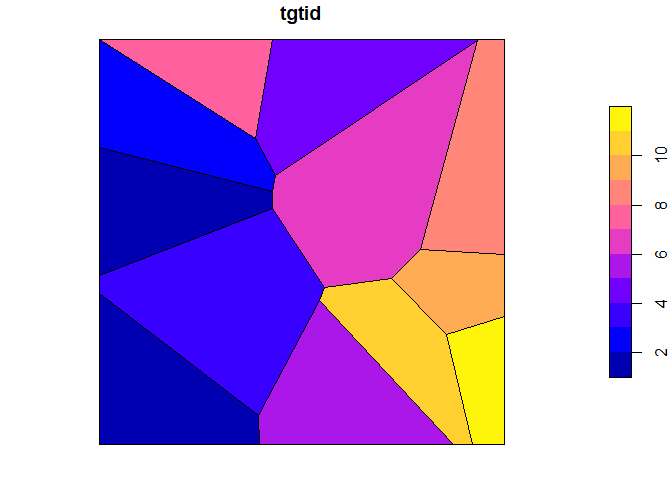
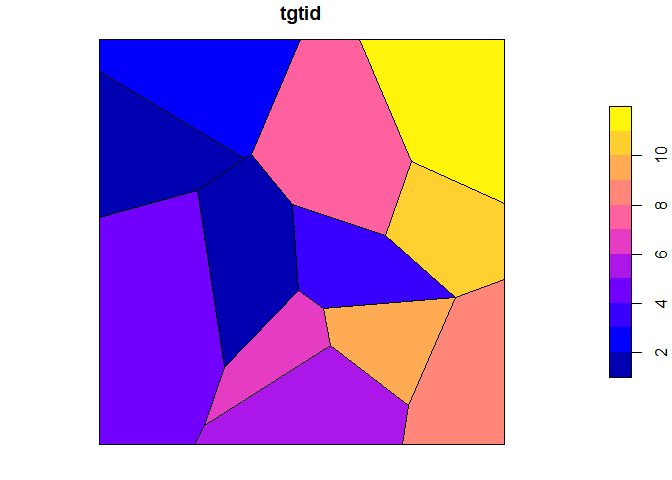
update validation

diff --git a/spatagg_validate.md b/spatagg_validate.md
@@ -12,8 +12,9 @@ cons of spatagg methods.
 
 ### Boundary
 
-First, we create an overall geographic boundary from which smaller
-non-overlapping sets of geographies will be generated.
+First, an overall geographic boundary is created. This boundary serves
+as a sandbox from which smaller non-overlapping sets of geographies are
+be generated.
 
 ``` r
 # Set up libraries
@@ -38,10 +39,16 @@ boundary = sf::st_sf(r, id = 1)
 
 ### Source and target
 
-Two sets of geographies will be created. The first, src (or, source)
-will be the origin geographic set for the data (to be created later).
-The second, tgt(or, target), is the desired geographic level for the
-estimates.
+Two sets of geographies are created. The first, src (or, source) is the
+origin geographic set for the data (to be created later). The second,
+tgt (or, target), is the desired geographic level for the estimates.
+Both are provided in maps below. They are created by sampling a set of
+points within the boundary and then creating a voronoi tessellation
+around the points. By design, there are more source polygons than target
+ones. This reflects that most instances of non-nesting aggregation go
+between a set of geographically smaller source polygons and a larger
+(geographically) set of target polygons. For example, Census Tracts to
+ZIP codes.
 
 ``` r
 src = st_sample(boundary, 30)
@@ -69,9 +76,10 @@ plot(tgt[,'tgtid'])
 
 ### Population and variables
 
-Randomly generate the location of “people” within the boundary. Randomly
-assign the people a binary condition and numeric one. Spatial patterning
-derives from src
+The location of “people are randomly generated within the boundary.
+These”people” are randomly assigned a binary variable value and a
+numeric (count) variable. The src polygon is used to inject some spatial
+patterning.
 
 ``` r
 # Bring in source information to give it some spatial patterning
@@ -110,8 +118,11 @@ ggplot(grid) + geom_sf(aes(fill = N), color = NA) + theme_bw() + ggtitle('Popula
 
 ### Aggregate to source
 
+The maps below show the “true” values for the `bin` and `num` variables
+at the source geography level.
+
 ``` r
-srcp = pop %>% st_drop_geometry() %>% group_by(srcid) %>% summarize(bin = mean(bin), num = mean(num))
+srcp = pop %>% st_drop_geometry() %>% group_by(srcid) %>% summarize(bin = mean(bin), num = sum(num))
 src = merge(src[, c('srcid', 'npop','binperc')], srcp, all.x = T, by = 'srcid')
 
 plot(src[, c('bin', 'num')])
@@ -120,6 +131,11 @@ plot(src[, c('bin', 'num')])
 ![](spatagg_validate_files/figure-commonmark/unnamed-chunk-5-1.png)
 
 ### Aggregate to target
+
+The maps below show the “true” values of `bin` and `num` at the target
+geography level. The resulting values are what will serve as the
+observed truth when evaluating the various types of spatial
+crosswalking.
 
 ``` r
 tgtp = pop %>% st_intersection(tgt) %>% st_drop_geometry() %>% group_by(tgtid) %>% summarize(bin = mean(bin), num = sum(num))
@@ -133,6 +149,23 @@ plot(tgt[, c('bin', 'num')])
 
 ### Geographic Crosswalks
 
+Geographic crosswalks distribute values from source to target based on
+geographic overlap. For the `num` variable, a source polygon contributes
+the percent overlap to a given target. For example, a source polygon
+that has 30% of its area overlapping a given target polygon will
+contribute `.3 * num` to the final estimate for target. The target
+polygon `bin` value is computed slightly differently. Instead, source
+polygon contributes its value based on the relative overlap with target.
+For example, a source polygon’s area may overlap 30% with the target
+polygon, but only cover 10% of the target polygon. As such, the
+resulting weight of the source to target pairing is 10%. By weighting in
+terms of relative share of target, \[0-1\] bounding for binary variables
+(or percents or proportions or whatever) will be preserved.
+
+Geographic crosswalks can be considered a special case of population
+crosswalks with the assumption that population is equally distributed
+within a source polygon.
+
 ``` r
 library('spatagg')
 s2t = create_xwalk(source = src, target = tgt, source_id = 'srcid', target_id = 'tgtid',method = 'fractional overlap')
@@ -145,6 +178,16 @@ setnames(tgt_g, c('tgtid', 'gbin', 'gnum'))
 ```
 
 ### Population based crosswalk
+
+This set of crosswalk weights are generated based on the relative
+overlap of population between source and target. The caveats between
+count and proportion data discussed above apply here as well.
+
+Note: there is no reason to use the spatagg package if your data are
+available at the point level. This example exists as an idealized case.
+More generally, you are going to have some sort of areal population
+expressed as points (see below). That is really what the ‘point pop’
+method is for.
 
 ``` r
 pop$pop = 1
@@ -160,9 +203,17 @@ setnames(tgt_p, c('tgtid', 'pbin', 'pnum'))
 
 ### Approximate parcel population
 
+Usually, point population locations and values will be a point based
+(e.g. centriod) representation of small area. In this case, a few
+thousand points are distributed within the boundary and population
+points are aggregated to the closet one. This is to roughly approximate
+the parcel population estimates made available in the kcparcelpop
+package. This also reflect how people actually live– in buildings shared
+with other and not entirely randomly distributed throughout space.
+
 ``` r
 # sample some points to represent parcels
-parcel = st_sample(boundary, 6000)
+parcel = st_sample(boundary, 3000)
 parcel = st_sf(parcel_id = seq_along(parcel), geom = parcel)
 
 # assign parcel id to pop based on proximity
@@ -184,6 +235,10 @@ setnames(tgt_pp, c('tgtid', 'ppbin', 'ppnum'))
 
 ### Compare results
 
+Unsurprisingly, the higher the spatial resolution of the population data
+the more accurate (in this case, by a lower RMSE) the resulting
+aggregated/crosswalked estimates are to the “truth.”
+
 ``` r
 res = tgt %>% st_drop_geometry()
 res = merge(res, tgt_g, all.x = T, by = 'tgtid')
@@ -201,10 +256,10 @@ chk = rbind(
 knitr::kable(chk)
 ```
 
-| Var |       Pop |      Geog | Parcel Pop |
-|:----|----------:|----------:|-----------:|
-| bin |     0.008 |     0.088 |       0.01 |
-| num | 55841.562 | 55841.881 |   55842.17 |
+| Var |     Pop |    Geog | Parcel Pop |
+|:----|--------:|--------:|-----------:|
+| bin |   0.012 |   0.076 |      0.022 |
+| num | 431.103 | 731.669 |   1150.919 |
 
 ``` r
 # maps showing target_id specific difference
